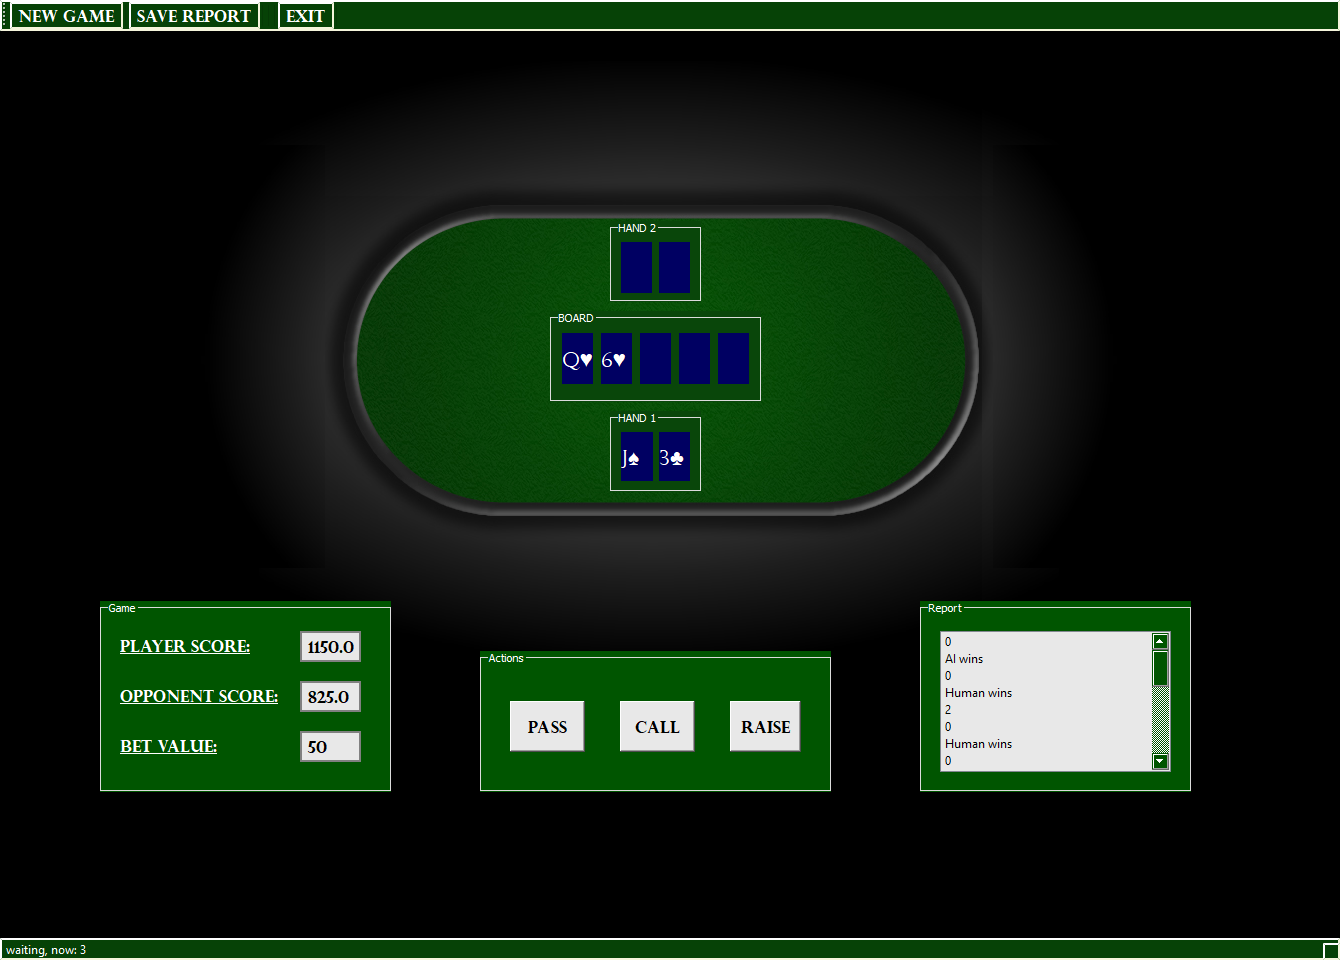
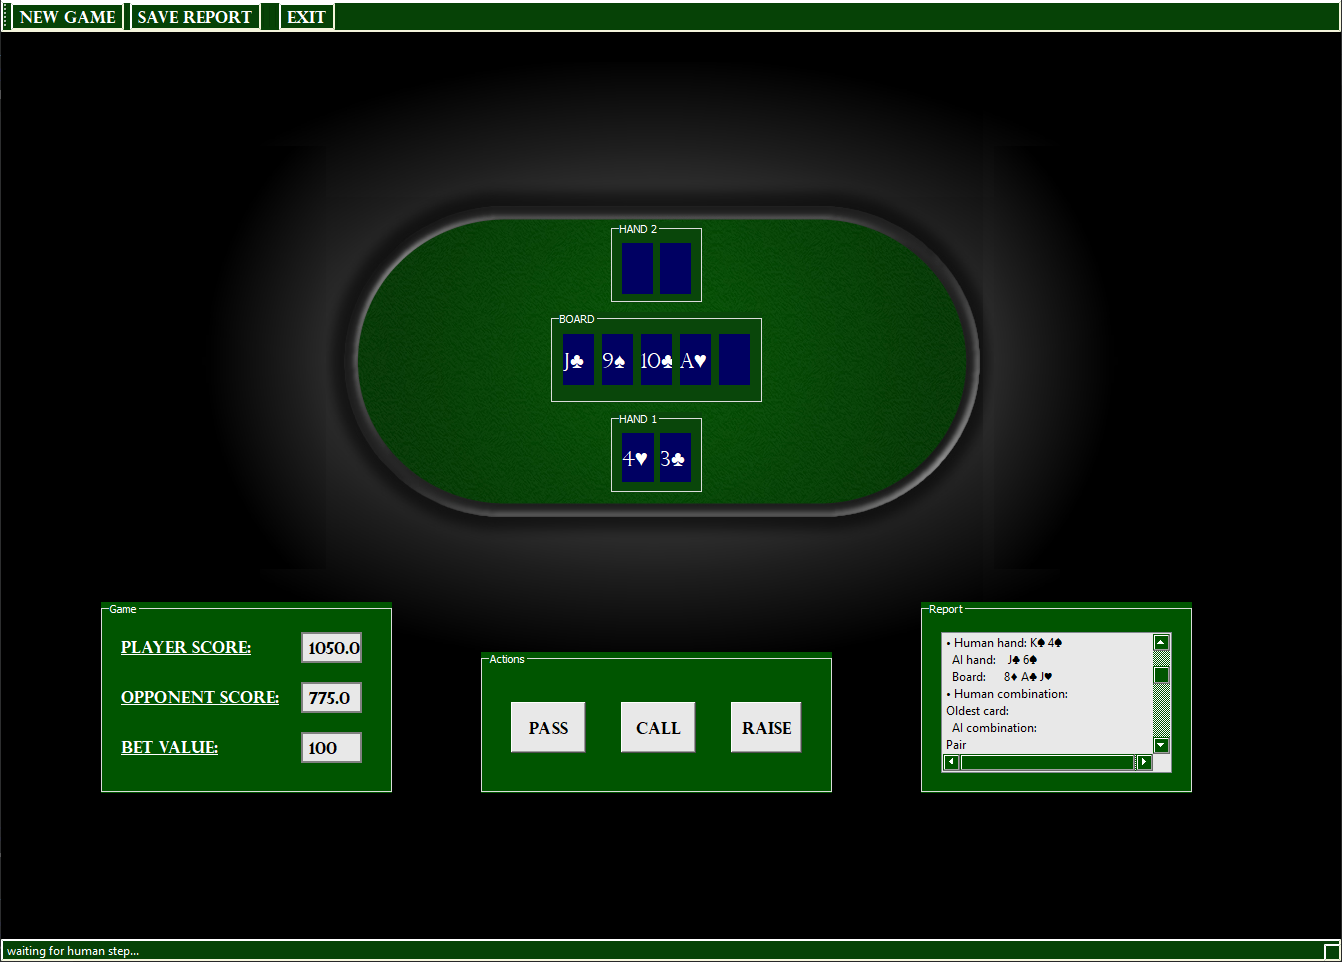
Moved gui to screen center

diff --git a/uis/poker_gui.py b/uis/poker_gui.py
@@ -14,12 +14,13 @@ class Ui_MainWindow(object):
     def setupUi(self, MainWindow):
         MainWindow.setObjectName("MainWindow")
         MainWindow.setEnabled(True)
+        MainWindow.resize(1931, 960)
         MainWindow.setMinimumSize(QtCore.QSize(1340, 960))
         MainWindow.setStyleSheet("background-color: rgb(0, 0, 0);")
         self.centralwidget = QtWidgets.QWidget(MainWindow)
         self.centralwidget.setObjectName("centralwidget")
         self.SettingsBox = QtWidgets.QGroupBox(self.centralwidget)
-        self.SettingsBox.setGeometry(QtCore.QRect(100, 570, 291, 191))
+        self.SettingsBox.setGeometry(QtCore.QRect(390, 560, 291, 191))
         self.SettingsBox.setStyleSheet("background-color: rgb(0, 85, 0);\n"
 "color: rgb(255, 255, 255);")
         self.SettingsBox.setObjectName("SettingsBox")
@@ -81,7 +82,7 @@ class Ui_MainWindow(object):
         self.BetValueNumber.setText("")
         self.BetValueNumber.setObjectName("BetValueNumber")
         self.ActionsBox = QtWidgets.QGroupBox(self.centralwidget)
-        self.ActionsBox.setGeometry(QtCore.QRect(480, 620, 351, 141))
+        self.ActionsBox.setGeometry(QtCore.QRect(770, 610, 351, 141))
         self.ActionsBox.setStyleSheet("background-color: rgb(0, 85, 0);\n"
 "color: rgb(255, 255, 255);")
         self.ActionsBox.setObjectName("ActionsBox")
@@ -104,12 +105,12 @@ class Ui_MainWindow(object):
 "color: rgb(0, 0, 0);")
         self.RaiseButton.setObjectName("RaiseButton")
         self.PokerTableImage = QtWidgets.QLabel(self.centralwidget)
-        self.PokerTableImage.setGeometry(QtCore.QRect(160, 30, 1001, 871))
+        self.PokerTableImage.setGeometry(QtCore.QRect(450, 20, 1001, 871))
         self.PokerTableImage.setText("")
         self.PokerTableImage.setPixmap(QtGui.QPixmap("C:\\Users\\Anton\\PycharmProjects\\course_work\\uis\\../images/Poker_table_picture_full.png"))
         self.PokerTableImage.setObjectName("PokerTableImage")
         self.BoardBox = QtWidgets.QGroupBox(self.centralwidget)
-        self.BoardBox.setGeometry(QtCore.QRect(550, 280, 211, 91))
+        self.BoardBox.setGeometry(QtCore.QRect(840, 270, 211, 91))
         self.BoardBox.setStyleSheet("color: rgb(255, 255, 255);\n"
 "background-color: rgb(9, 70, 10);")
         self.BoardBox.setObjectName("BoardBox")
@@ -144,7 +145,7 @@ class Ui_MainWindow(object):
         self.card1_board.setText("")
         self.card1_board.setObjectName("card1_board")
         self.Hand2Box = QtWidgets.QGroupBox(self.centralwidget)
-        self.Hand2Box.setGeometry(QtCore.QRect(610, 190, 91, 81))
+        self.Hand2Box.setGeometry(QtCore.QRect(900, 180, 91, 81))
         self.Hand2Box.setStyleSheet("color: rgb(255, 255, 255);\n"
 "background-color: rgb(9, 70, 10);")
         self.Hand2Box.setObjectName("Hand2Box")
@@ -161,7 +162,7 @@ class Ui_MainWindow(object):
         self.card1_hand2.setText("")
         self.card1_hand2.setObjectName("card1_hand2")
         self.Hand1Box = QtWidgets.QGroupBox(self.centralwidget)
-        self.Hand1Box.setGeometry(QtCore.QRect(610, 380, 91, 81))
+        self.Hand1Box.setGeometry(QtCore.QRect(900, 370, 91, 81))
         self.Hand1Box.setStyleSheet("color: rgb(255, 255, 255);\n"
 "background-color: rgb(9, 70, 10);")
         self.Hand1Box.setObjectName("Hand1Box")
@@ -175,7 +176,7 @@ class Ui_MainWindow(object):
         self.card1_hand1.setGeometry(QtCore.QRect(11, 21, 32, 49))
         font = QtGui.QFont()
         font.setFamily("Perpetua Titling MT")
-        font.setPointSize(12)
+        font.setPointSize(16)
         font.setBold(False)
         font.setItalic(False)
         font.setWeight(9)
@@ -187,7 +188,7 @@ class Ui_MainWindow(object):
         self.card1_hand1.setWordWrap(False)
         self.card1_hand1.setObjectName("card1_hand1")
         self.ReportBox = QtWidgets.QGroupBox(self.centralwidget)
-        self.ReportBox.setGeometry(QtCore.QRect(920, 570, 271, 191))
+        self.ReportBox.setGeometry(QtCore.QRect(1210, 560, 271, 191))
         self.ReportBox.setStyleSheet("background-color: rgb(0, 85, 0);\n"
 "color: rgb(255, 255, 255);")
         self.ReportBox.setObjectName("ReportBox")
@@ -256,7 +257,7 @@ class Ui_MainWindow(object):
         self.Hand1Box.setTitle(_translate("MainWindow", "HAND 1"))
         self.ReportBox.setTitle(_translate("MainWindow", "Report"))
         self.toolBar.setWindowTitle(_translate("MainWindow", "toolBar"))
-        self.actionNew_game.setText(_translate("MainWindow", "New game"))
+        self.actionNew_game.setText(_translate("MainWindow", "Start game"))
         self.actionNew_game.setToolTip(_translate("MainWindow", "This action ends current session and starts new game from the begining"))
         self.actionSave_report.setText(_translate("MainWindow", "Save report"))
         self.actionSave_report.setToolTip(_translate("MainWindow", "This action makes a .txt file with report about current game"))
